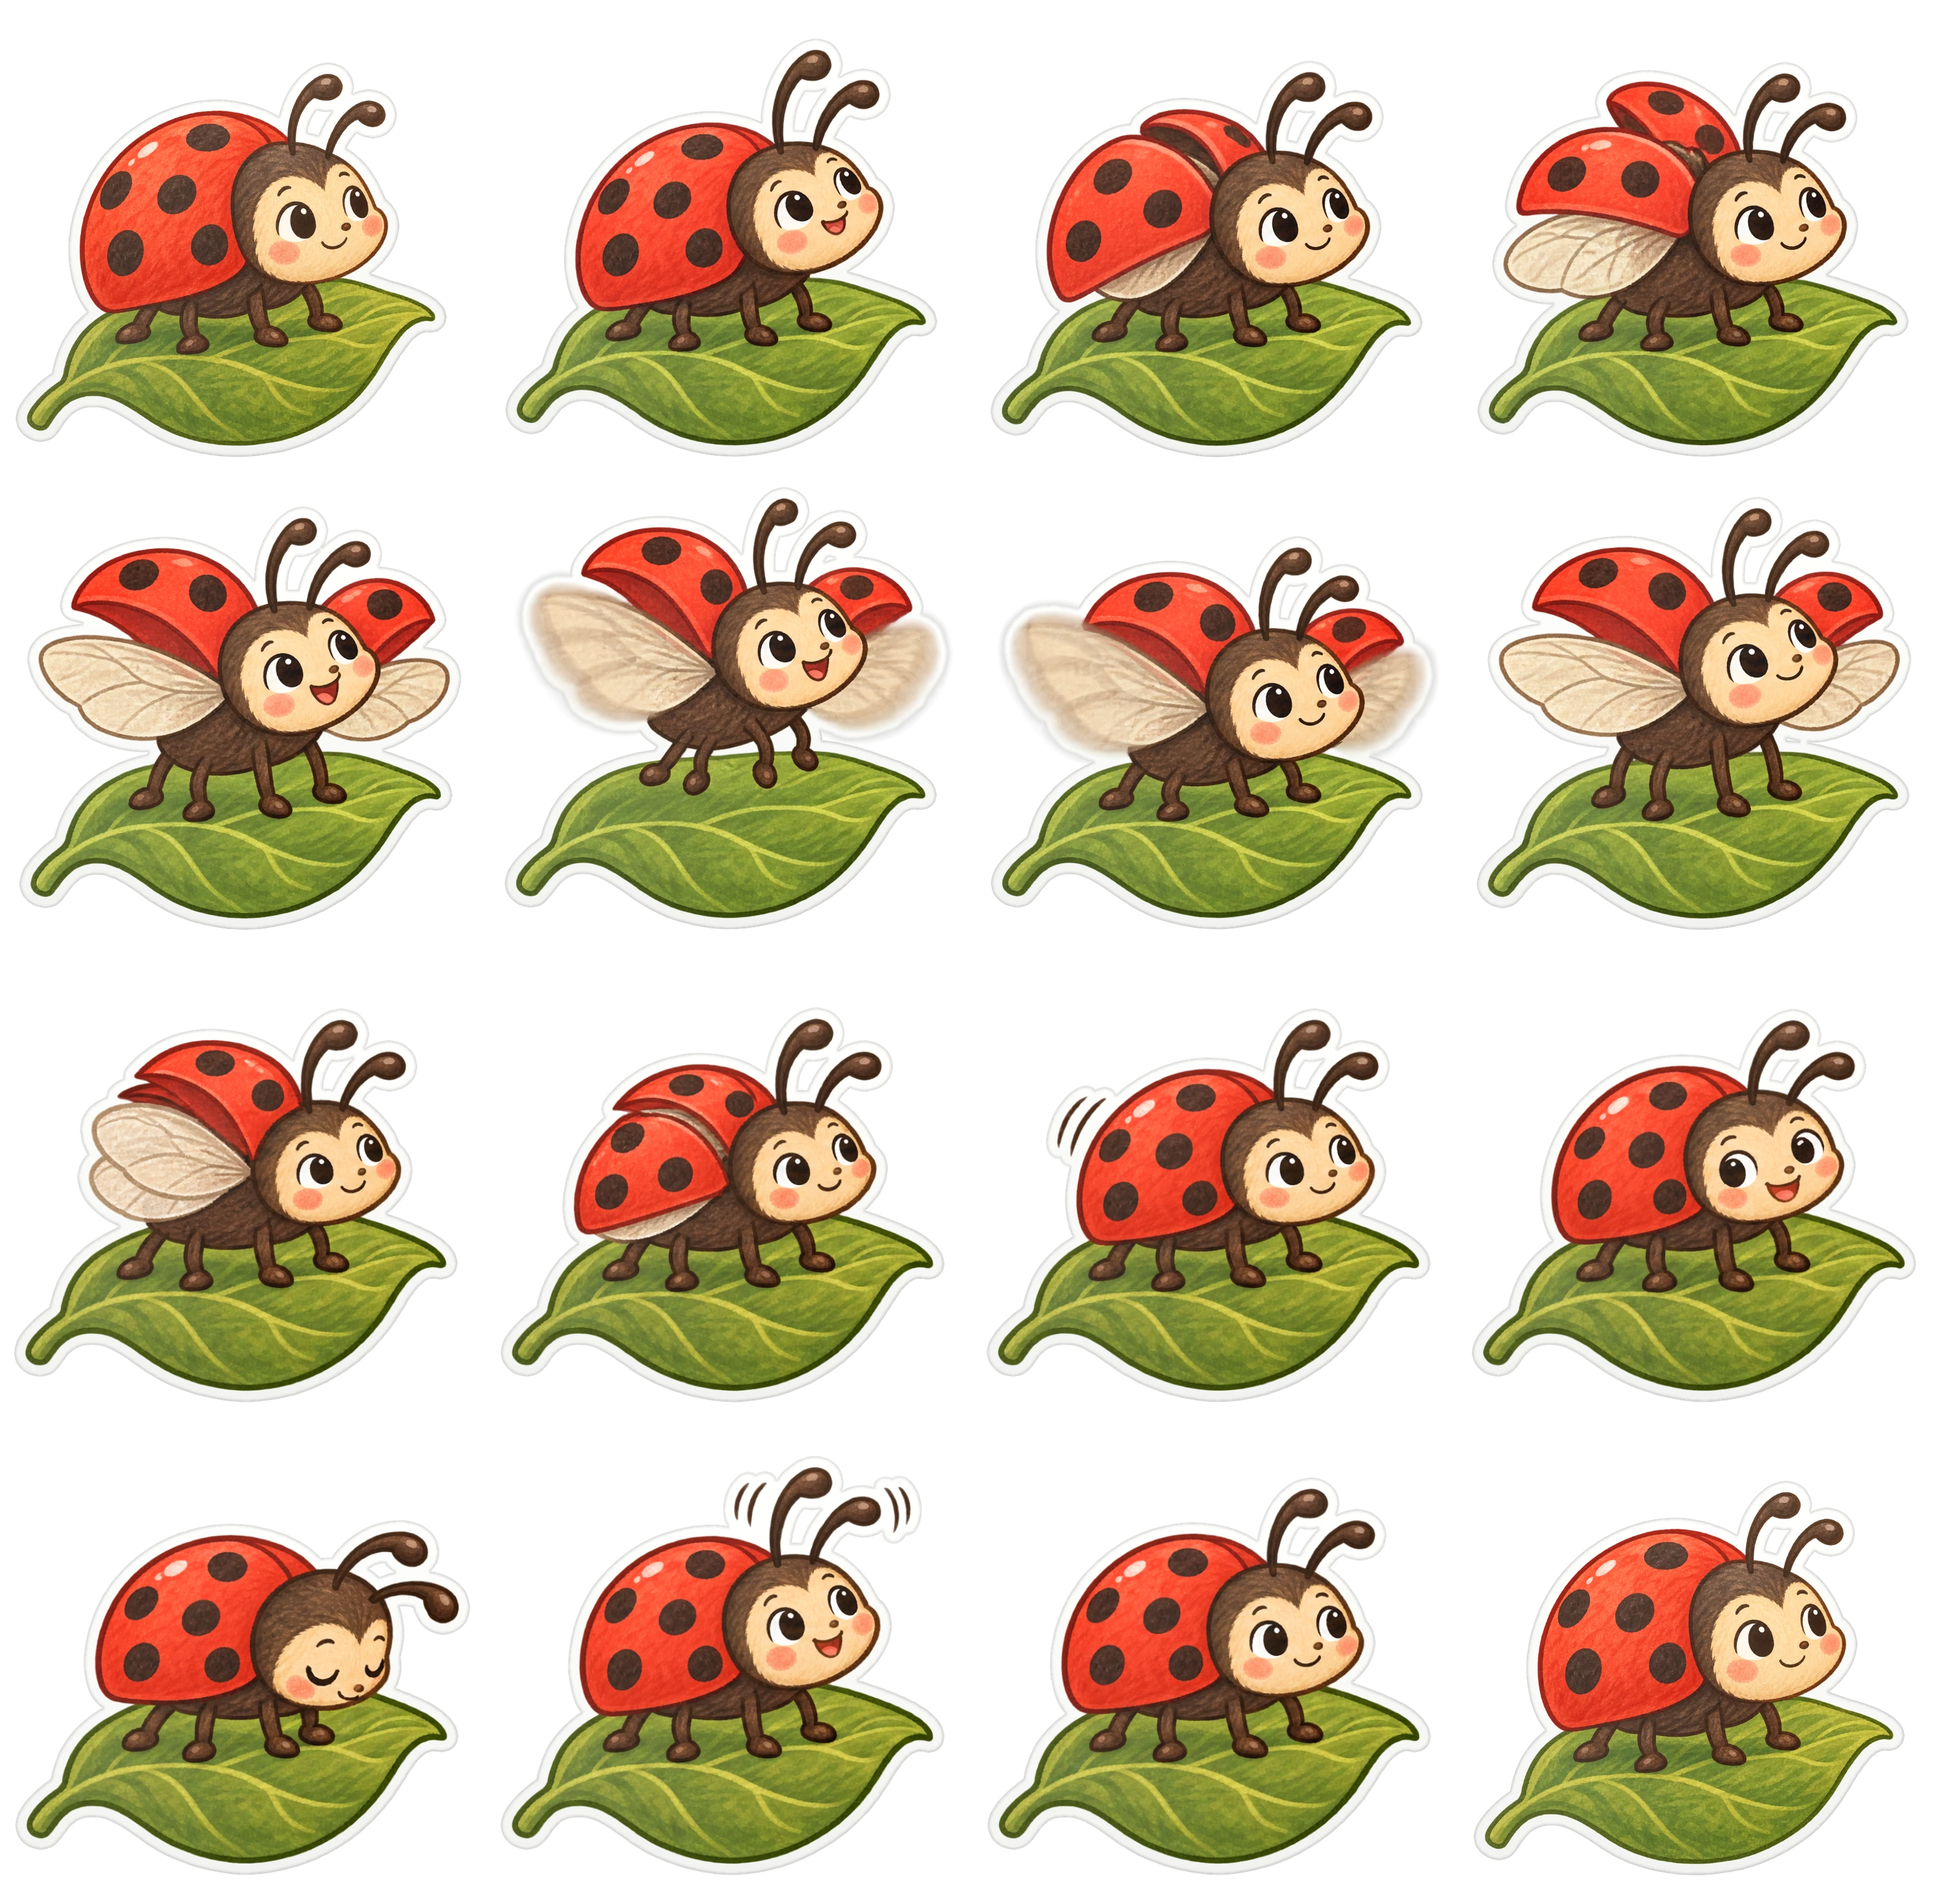
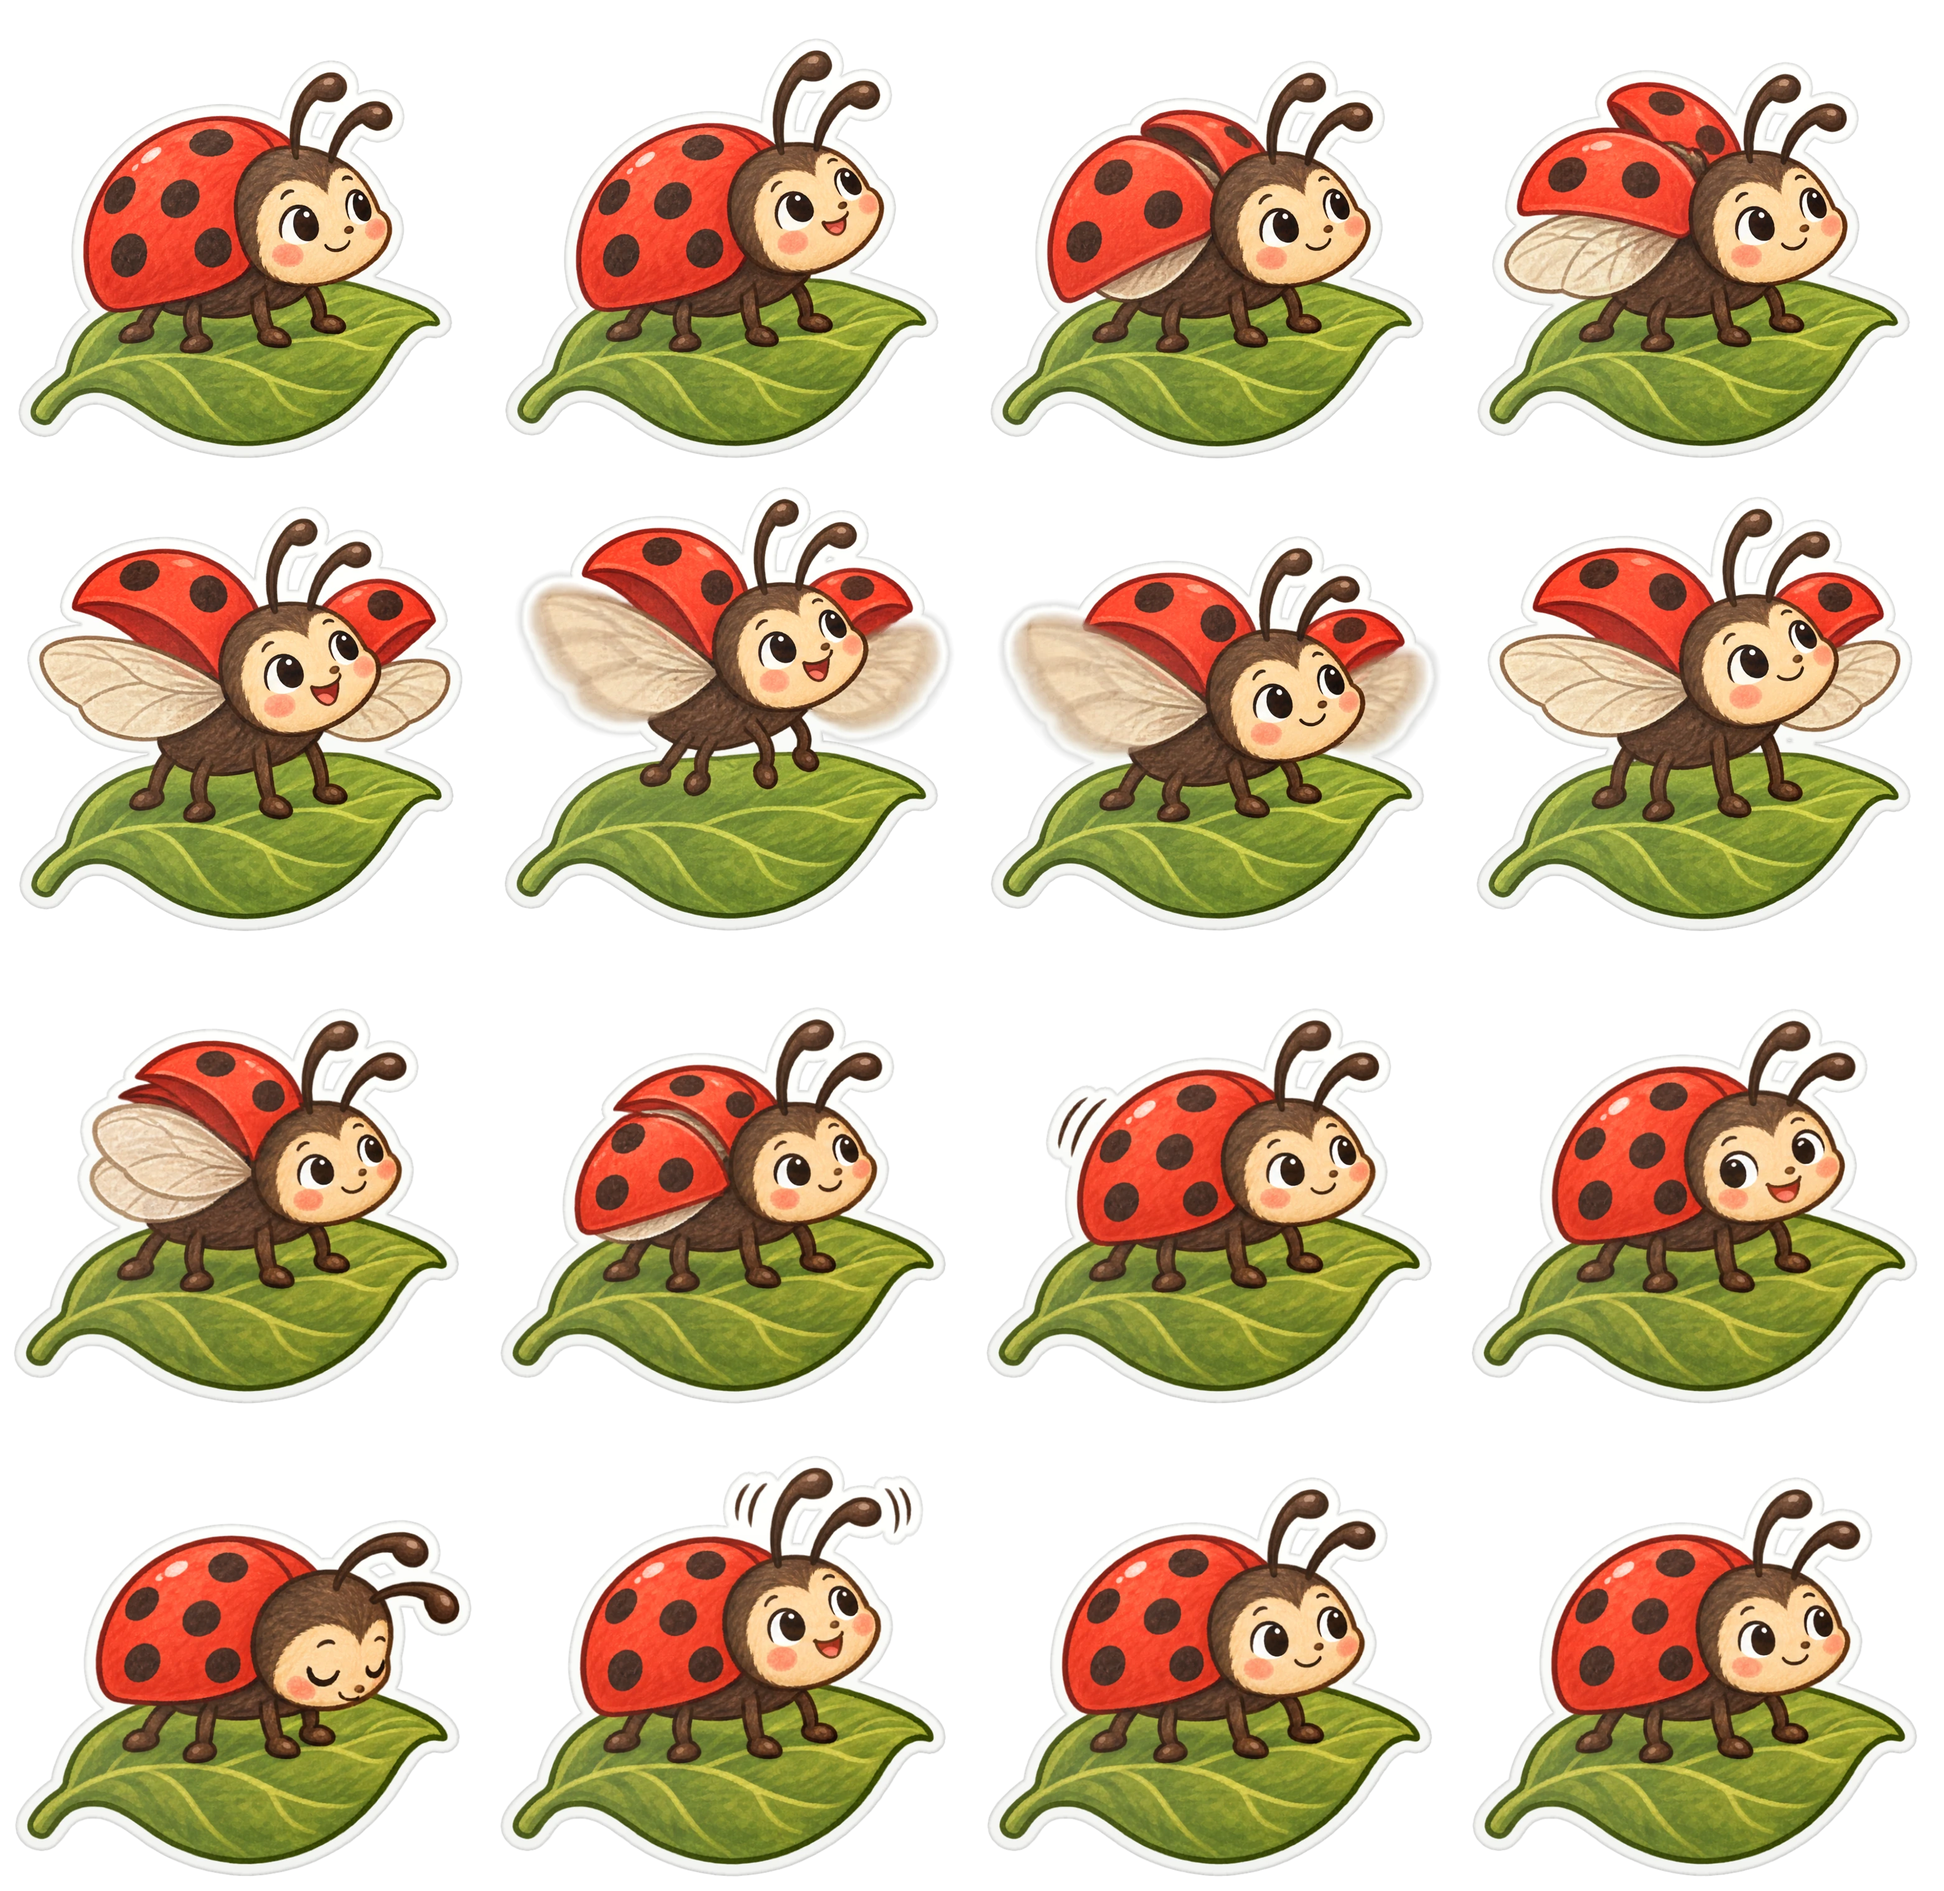
live stickers: dissolve into the generator's drawing (ladybug first; v20)
stickeranim gains restFromSticker (default true): false keeps the
generator's own drawing in the rest frames, which still set the sheets'
sizes. The app now dissolves between the still sticker and the frames
instead of fading the frames over and cutting: the frames fade in over
the opaque still art, then the still art dissolves away beneath them
over the rest of the first hold (and the reverse at the end), so a
redrawn character changes smoothly instead of popping one frame in.
The ladybug uses it, with 0.45 s first and last holds; the other nine
keep the sticker's art in their rest frames. Debug -liveDemo takes a
sticker id.

diff --git a/app/StickerStories/Canvas/StickerAnimation.swift b/app/StickerStories/Canvas/StickerAnimation.swift
@@ -75,11 +75,21 @@ struct StickerAnimation: Decodable, Identifiable, Sendable {
 
 extension StickerNode {
     private static let liveNodeName = "live-animation"
-    private static let liveFade: TimeInterval = 0.15
+    private static let liveStillName = "live-still"
+    /// How long the frames take to fade in over the still art (and out at
+    /// the end), capped at two thirds of the first and last frames' holds;
+    /// the rest of those holds dissolves the still art out underneath (and
+    /// back in). Long enough that where the first frame is the generator's
+    /// drawing rather than the sticker's own art, the difference dissolves
+    /// instead of popping.
+    private static let liveFade: TimeInterval = 0.3
 
-    /// Plays a live animation over this sticker: the frames crossfade in
-    /// over the still art at the rest pose, play through, and crossfade
-    /// back out. The child inherits the sticker's placement, so a pinched,
+    /// Plays a live animation over this sticker. At the rest pose the frames
+    /// fade in over the still art, which stays opaque underneath (two
+    /// half-faded layers would let the background show through), and then
+    /// the still art dissolves away beneath them, so the first frame need
+    /// not be the sticker's exact drawing: where the two differ, the edge
+    /// dissolves. The frames play through and the same happens in reverse. The child inherits the sticker's placement, so a pinched,
     /// turned or effect-driven sticker animates in place. With a shadow
     /// sheet (`StickerShadowCache.shadowSheet`) the drop shadow follows
     /// the frames; without one it keeps the still art's silhouette.
@@ -108,6 +118,13 @@ extension StickerNode {
         live.zPosition = 0.5  // over the sprite's own art, under nothing else of the node's
         live.alpha = 0
         addChild(live)
+        // The still art moves to a child of its own for the crossfade: a
+        // node's own texture cannot fade separately from its children.
+        let still = SKSpriteNode(texture: stillTexture, size: base)
+        still.name = Self.liveStillName
+        still.zPosition = 0.4
+        addChild(still)
+        texture = nil
         if let shadows {
             beginLiveShadow(size: live.size, anchor: live.position)
             setLiveShadow(shadows[0])
@@ -119,32 +136,34 @@ extension StickerNode {
                 if let shadows { self?.setLiveShadow(shadows[index]) }
             }
         }
-        let fade = min(Self.liveFade, animation.hold[0], animation.hold[animation.count - 1])
+        let firstHold = animation.hold[0], lastHold = animation.hold[animation.count - 1]
+        let fade = min(Self.liveFade, min(firstHold, lastHold) * 2 / 3)
+        let stillAction: (SKAction) -> SKAction = { [weak still] action in
+            .run { still?.run(action) }
+        }
         var steps: [SKAction] = [
             .fadeIn(withDuration: fade),
-            .wait(forDuration: animation.hold[0] - fade),
-            // From here the frames leave the rest pose, so the still art
-            // must not show through them.
-            .run { [weak self] in self?.texture = nil },
+            stillAction(.fadeOut(withDuration: firstHold - fade)),
+            .wait(forDuration: firstHold - fade),
         ]
         for index in 1..<max(1, animation.count - 1) {
             steps.append(show(index))
             steps.append(.wait(forDuration: animation.hold[index]))
         }
-        // The last frame is the rest pose again: bring the still art back
-        // underneath and fade the frames out over it.
+        // The last frame is the rest pose again: crossfade back to the still
+        // art, then hand it back to the sprite itself.
         let restore = SKAction.run { [weak self] in
             self?.texture = stillTexture
             self?.liveStillTexture = nil
+            self?.childNode(withName: Self.liveStillName)?.removeFromParent()
         }
         if animation.count > 1 {
-            steps.append(restore)
             steps.append(show(animation.count - 1))
-            steps.append(.wait(forDuration: animation.hold[animation.count - 1] - fade))
-        } else {
-            steps.append(restore)
         }
+        steps.append(stillAction(.fadeIn(withDuration: lastHold - fade)))
+        steps.append(.wait(forDuration: lastHold - fade))
         steps.append(.fadeOut(withDuration: fade))
+        steps.append(restore)
         steps.append(.run { [weak self] in self?.endLiveShadow() })
         if let completion {
             // Before the removal: a removed node runs no more actions.
@@ -160,6 +179,7 @@ extension StickerNode {
         guard let live = childNode(withName: Self.liveNodeName) else { return }
         live.removeAllActions()
         live.removeFromParent()
+        childNode(withName: Self.liveStillName)?.removeFromParent()
         if let liveStillTexture { texture = liveStillTexture }
         liveStillTexture = nil
         endLiveShadow()

diff --git a/app/StickerStories/Effects/EffectsGalleryView.swift b/app/StickerStories/Effects/EffectsGalleryView.swift
@@ -150,8 +150,13 @@ struct EffectsGalleryView: View {
                 }
                 scene.playCanvas(groups.filter { !$0.isEmpty })
             }
-            // `-liveDemo`: loop the first live animation on its sticker.
-            if ProcessInfo.processInfo.arguments.contains("-liveDemo"), let animation = animations.first {
+            // `-liveDemo [sticker]`: loop a live animation on its sticker (the
+            // first one, or the named sticker's).
+            if let index = arguments.firstIndex(of: "-liveDemo"),
+                let animation = animations.first(where: {
+                    index + 1 < arguments.count ? $0.sticker == arguments[index + 1] : true
+                }) ?? animations.first
+            {
                 stickerID = animation.sticker
                 scene.playLive(animation, repeating: true)
             }

diff --git a/tools/author/stickeranim/main.go b/tools/author/stickeranim/main.go
@@ -105,6 +105,13 @@ type animSpec struct {
 	// they take the sticker's real art, so the animation starts and ends
 	// on exactly the sticker (needs the raw from stickerart).
 	RestFrames []int `json:"restFrames,omitempty"`
+	// RestFromSticker (default true) puts the sticker's own art in the
+	// rest frames. False keeps the generator's drawing there: the rest
+	// frames still match the sheets' sizes, and the app's crossfade
+	// dissolves the still sticker into the drawing, so a character the
+	// generator redrew with slightly other proportions changes smoothly
+	// instead of cutting to the drawing one frame later.
+	RestFromSticker *bool `json:"restFromSticker,omitempty"`
 	// Normalize (default false) rescales frames so the base keeps its
 	// width: only for a base object that is the widest thing at the
 	// bottom in every pose (a lily pad, a perch); feet, a curling body or
@@ -113,6 +120,8 @@ type animSpec struct {
 }
 
 func (a animSpec) normalize() bool { return a.Normalize }
+
+func (a animSpec) restFromSticker() bool { return a.RestFromSticker == nil || *a.RestFromSticker }
 
 type sheetSpec struct {
 	Columns int      `json:"columns"`
@@ -519,7 +528,7 @@ func (r *renderer) animation(a animSpec) error {
 			hold[i] = defaultHold
 		}
 	}
-	asmFP := hashOf(append([]string{assembleVersion, hashFile(stickerPath), hashFile(r.rawPath(a.Sticker)), fmt.Sprint(r.c.cfg.Columns, r.c.cfg.MaxSheet, art.StickerSize, art.Border, art.Margin, art.finish(), hold, a.RestFrames, a.normalize())}, genFPs...)...)
+	asmFP := hashOf(append([]string{assembleVersion, hashFile(stickerPath), hashFile(r.rawPath(a.Sticker)), fmt.Sprint(r.c.cfg.Columns, r.c.cfg.MaxSheet, art.StickerSize, art.Border, art.Margin, art.finish(), hold, a.RestFrames, a.normalize(), a.restFromSticker())}, genFPs...)...)
 	sheetPath, jsonPath := r.out(a.key()+".png"), r.out(a.key()+".json")
 	if !changed && r.upToDate(sheetPath, asmFP) && r.upToDate(jsonPath, asmFP) {
 		r.say("· %s assembled sheet up to date", a.key())
@@ -584,13 +593,13 @@ func (r *renderer) assemble(a animSpec, raws []string, stickerPath string, hold 
 		opts.SheetSizes = append(opts.SheetSizes, len(s.Frames))
 	}
 
-	if len(a.RestFrames) > 0 {
+	for _, f := range a.RestFrames {
+		opts.RestFrames = append(opts.RestFrames, f-1)
+	}
+	if len(a.RestFrames) > 0 && a.restFromSticker() {
 		if data, err := os.ReadFile(r.rawPath(a.Sticker)); err == nil {
 			if opts.Rest, err = stickerimg.Decode(data); err != nil {
 				return fmt.Errorf("%s raw: %w", a.Sticker, err)
-			}
-			for _, f := range a.RestFrames {
-				opts.RestFrames = append(opts.RestFrames, f-1)
 			}
 		} else {
 			r.say("  (no raw for %s; rest frames keep the generated art)", a.Sticker)

diff --git a/tools/author/stickeranim/README.md b/tools/author/stickeranim/README.md
@@ -47,6 +47,13 @@ the same printed vinyl as the sticker.
     size (see Registration): **give every sheet a rest-pose frame** — the
     usual shape is sheet 1 starting "exactly as in the reference" and the
     last sheet ending "exactly as frame 1".
+  - `restFromSticker` (default true): false keeps the generator's own
+    drawing in the rest frames instead of the sticker's art (they still
+    set the sheets' sizes). The app then dissolves the still sticker into
+    the drawing over the first and last frames' holds (give them ~0.45 s),
+    so a character redrawn with slightly different proportions changes
+    smoothly instead of cutting one frame in; the cost is a brief
+    double outline during the dissolve. Forest uses it for the ladybug.
   - `normalize` (default false): rescale every frame so its base keeps
     the first frame's width. Only for a base object that is the widest
     thing at the bottom in every pose — the frog's lily pad, the owl's
